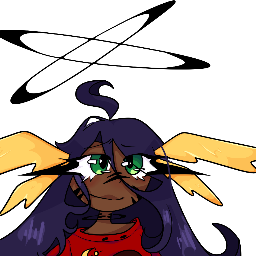
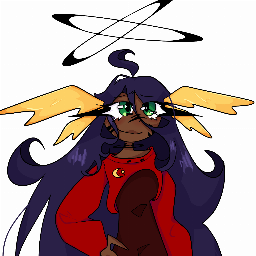
Make portrait cropping less wonky

diff --git a/js/character_editor.js b/js/character_editor.js
@@ -2,11 +2,13 @@ class CharacterEditor extends Editor {
     #groupTierList = 'renown';
     #characterId = null;
 
-    #portraitDragStartedAt = 0;
     #portraitSelector = null
     #portraitCenter = null;
     #portraitRadius = 0;
     #portraitRatio = 0;
+    #portraitDragState = 'none';
+    #portraitCenterStart = null;
+    #portraitRadiusStart = null;
     #portraitDragStart = null;
 
     constructor(controller, element) {
@@ -80,6 +82,7 @@ class CharacterEditor extends Editor {
 
         this.#characterId = characterKey;
         this.#portraitCenter = null;
+        this.#portraitSelector = null;
         this.#portraitRatio = 0;
         this.clearModified();
 
@@ -109,7 +112,8 @@ class CharacterEditor extends Editor {
             let borderSize = 2 * parseFloat(portraitStyle.borderWidth);
             let portraitWidth = portraitImage.offsetWidth - borderSize;
             let portraitHeight = portraitImage.offsetHeight - borderSize;
-            let portraitCenter = Utilities.createDiv('portraitCenter', portraitImage);
+            let portraitHandles = Utilities.createDiv('portraitHandles', portraitImage);
+            let portraitCenter = Utilities.createDiv('portraitCenter', portraitHandles);
             let portraitInfo = character.hasOwnProperty('portrait') ? character.portrait : {};
             let center = portraitInfo.hasOwnProperty('center') ? portraitInfo.center : [loadImage.width * 0.5, loadImage.height * 0.1];
             let radius = portraitInfo.hasOwnProperty('radius') ? portraitInfo.radius : loadImage.width * 0.5;
@@ -122,29 +126,30 @@ class CharacterEditor extends Editor {
             portraitHeight = loadImage.height * ratio;
 
             portraitImage.style.backgroundSize = portraitWidth + 'px ' + portraitHeight + 'px';
-            portraitImage.addEventListener('click', function(event) {
-                if (editor.#wasClick()) {
-                    editor.#movePortraitCenter(event.offsetX, event.offsetY);
-                }
+            portraitCenter.addEventListener('mousedown', function(event) {
+                event.stopPropagation();
+                editor.#startPortraitMove(event.screenX, event.screenY);
             });
-            portraitImage.addEventListener('mousedown', function(event) {
-                editor.#startPortraitDrag(event.offsetX, event.offsetY);
+            portraitCenter.addEventListener('mouseup', function(event) {
+                editor.#stopPortraitDrag(event.screenX, event.screenY);
             });
-            portraitImage.addEventListener('mouseup', function(event) {
-                if (editor.#wasClick()) {
-                    editor.#cancelPortraitDrag();
-                } else {
-                    editor.#stopPortraitDrag(event.offsetX, event.offsetY);
-                }
+            portraitHandles.addEventListener('mousedown', function(event) {
+                event.stopPropagation();
+                editor.#startPortraitResize(event.screenX, event.screenY);
+            });
+            portraitHandles.addEventListener('mouseup', function(event) {
+                editor.#stopPortraitDrag(event.screenX, event.screenY);
             });
             portraitImage.addEventListener('mousemove', function(event) {
-                editor.#updateDraggedPortrait(event.offsetX, event.offsetY);
+                editor.#updateDraggedPortrait(event.screenX, event.screenY);
             });
 
+            editor.#portraitRadiusStart = radius;
+            editor.#portraitCenterStart = center;
             editor.#portraitRatio = ratio;
             editor.#portraitRadius = radius;
             editor.#portraitCenter = center;
-            editor.#portraitSelector = portraitCenter;
+            editor.#portraitSelector = [portraitCenter, portraitHandles];
             editor.#updatePortraitSelector();
         };
         loadImage.src = imageSrc;
@@ -291,32 +296,49 @@ class CharacterEditor extends Editor {
         let radius = this.#portraitRadius;
         let scaledRadius = radius * ratio;
 
-        this.#portraitSelector.style.left = (center[0] * ratio - scaledRadius) + 'px';
-        this.#portraitSelector.style.top = (center[1] * ratio - scaledRadius) + 'px';
+        this.#portraitSelector[0].style.left = '0px';
+        this.#portraitSelector[0].style.top = '0px';
 
-        this.#portraitSelector.style.width = (scaledRadius * 2) + 'px';
-        this.#portraitSelector.style.height = (scaledRadius * 2) + 'px';
+        this.#portraitSelector[0].style.width = (scaledRadius * 2) + 'px';
+        this.#portraitSelector[0].style.height = (scaledRadius * 2) + 'px';
+
+        this.#portraitSelector[1].style.left = (center[0] * ratio - scaledRadius - 4) + 'px';
+        this.#portraitSelector[1].style.top = (center[1] * ratio - scaledRadius - 4) + 'px';
+
+        this.#portraitSelector[1].style.width = (scaledRadius * 2 + 8) + 'px';
+        this.#portraitSelector[1].style.height = (scaledRadius * 2 + 8) + 'px';
     }
 
-    #movePortraitCenter(offsetX, offsetY) {
-        if (this.#portraitRatio == 0) return;
-        this.#portraitCenter = [offsetX / this.#portraitRatio, offsetY / this.#portraitRatio];
-        this.#updatePortraitSelector();
-        this.setModified('portrait');
-    }
-
-    #wasClick() {
-        return Date.now() - this.#portraitDragStartedAt < 300;
-    }
-
-    #startPortraitDrag(offsetX, offsetY) {
+    #startPortraitMove(offsetX, offsetY) {
+        this.#portraitDragState = 'move';
         this.#portraitDragStart = [offsetX, offsetY];
-        this.#portraitDragStartedAt = Date.now();
+    }
+
+    #startPortraitResize(offsetX, offsetY) {
+        this.#portraitDragState = 'resize';
+        this.#portraitDragStart = [offsetX, offsetY];
     }
 
     #updateDraggedPortrait(offsetX, offsetY) {
-        this.#resizePortraitFromDrag(offsetX, offsetY);
+        switch (this.#portraitDragState) {
+            case 'move':
+                this.#movePortraitFromDrag(offsetX, offsetY);
+                this.#updatePortraitSelector();
+                break;
+            case 'resize':
+                this.#resizePortraitFromDrag(offsetX, offsetY);
+                this.#updatePortraitSelector();
+                break;
+        }
+    }
+
+    #movePortraitFromDrag(offsetX, offsetY) {
+        if (this.#portraitRatio == 0) return;
+        let dragDistanceX = offsetX - this.#portraitDragStart[0];
+        let dragDistanceY = offsetY - this.#portraitDragStart[1];
+        this.#portraitCenter = [dragDistanceX / this.#portraitRatio + this.#portraitCenterStart[0], dragDistanceY / this.#portraitRatio + this.#portraitCenterStart[1]];
         this.#updatePortraitSelector();
+        this.setModified('portrait');
     }
 
     #resizePortraitFromDrag(offsetX, offsetY) {
@@ -327,18 +349,24 @@ class CharacterEditor extends Editor {
         if (Math.abs(dragDistanceX) > Math.abs(dragDistanceY)) {
             dragDistance = dragDistanceX;
         }
-        this.#portraitRadius = Math.max(32, this.#portraitRadius + dragDistance);
+        this.#portraitRadius = Math.max(32, this.#portraitRadiusStart + dragDistance / this.#portraitRatio);
     }
 
-    #stopPortraitDrag(offsetX, offsetY, portraitCenter) {
-        this.#resizePortraitFromDrag(offsetX, offsetY, portraitCenter);
+    #stopPortraitDrag(offsetX, offsetY) {
+        switch (this.#portraitDragState) {
+            case 'move':
+                this.#movePortraitFromDrag(offsetX, offsetY);
+                break;
+            case 'resize':
+                this.#movePortraitFromDrag(offsetX, offsetY);
+                break;
+        }
         this.#updatePortraitSelector();
+        this.#portraitCenterStart = this.#portraitCenter;
+        this.#portraitRadiusStart = this.#portraitRadius;
         this.#portraitDragStart = null;
+        this.#portraitDragState = 'none';
         this.setModified('portrait');
-    }
-
-    #cancelPortraitDrag() {
-        this.#portraitDragStart = null;
     }
 
     #save(properties) {

diff --git a/css/editor.css b/css/editor.css
@@ -20,7 +20,6 @@
     max-height: 512px;
     overflow: hidden;
     margin: 8px;
-    cursor: pointer;
     background-repeat: no-repeat;
     background-position: left top;
     border: 4px solid #D08856;
@@ -35,8 +34,17 @@
 
 .portraitCenter {
     position: relative;
-    border: 2px solid red;
-    pointer-events: none;
+    background-color: rgba(0,0,0,0.1);
+    cursor: move;
+    z-index: 150;
+}
+
+.portraitHandles {
+    position: relative;
+    border: 4px solid rgba(255,0,0,0.5);
+    box-sizing: border-box;
+    cursor: nesw-resize;
+    z-index: 100;
 }
 
 .editorHeader {

diff --git a/data/version.inc.php b/data/version.inc.php
@@ -1,2 +1,2 @@
 <?php
-const VERSION = 19;
+const VERSION = 20;
